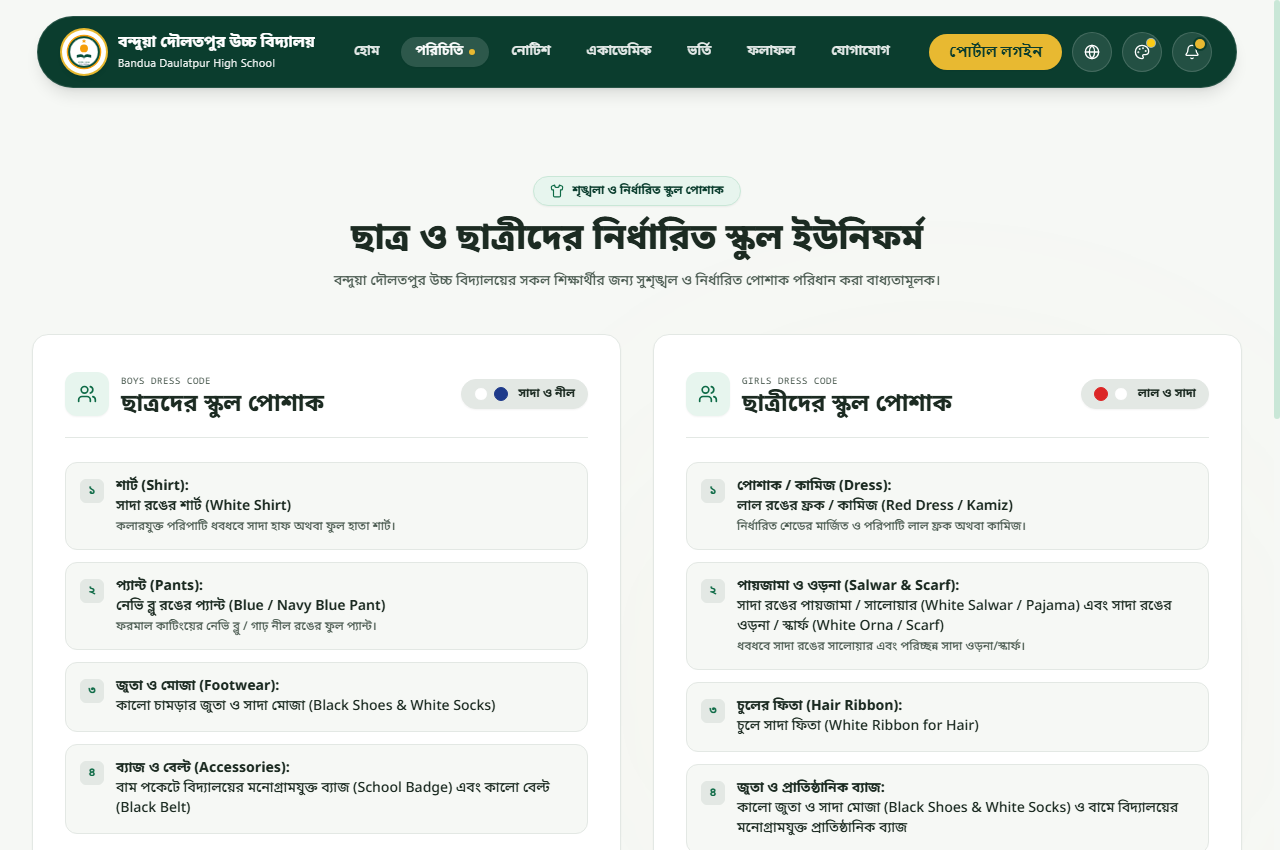
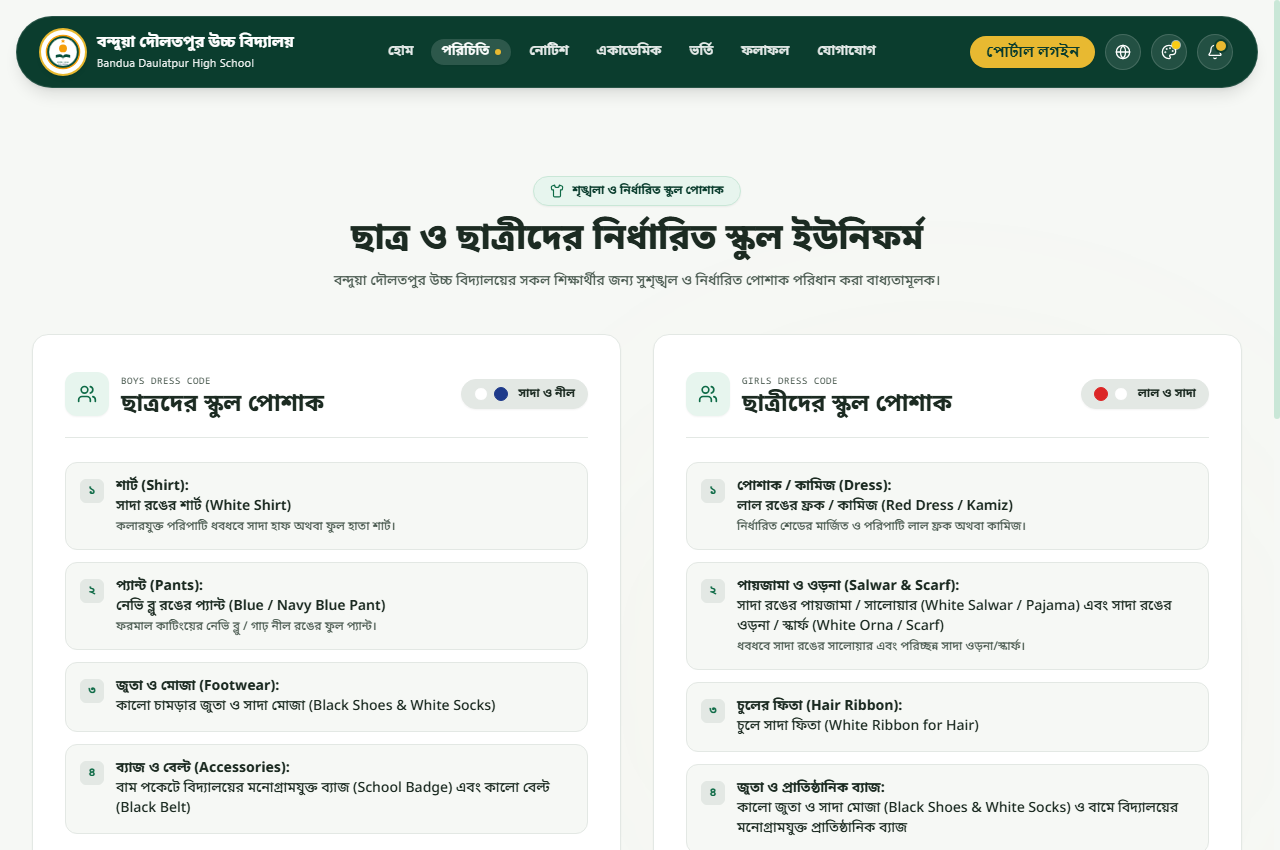
fix(ui): resolve stats strip subtitle contrast and header school name truncation at 1280px

diff --git a/src/components/Header.jsx b/src/components/Header.jsx
@@ -197,15 +197,15 @@ export default function Header() {
             : '-translate-x-1/2 translate-y-0'
         } ${
           isScrolled
-            ? 'top-[10px] w-[calc(100%-1.5rem)] max-w-[1100px] h-[58px] bg-deep/90 backdrop-blur-[14px] backdrop-saturate-[140%] border border-white/[0.14] shadow-[0_12px_32px_rgba(0,0,0,0.18)] floating-glass-scrolled'
-            : 'top-[16px] w-[calc(100%-2rem)] max-w-[1200px] h-[72px] bg-deep border border-white/[0.12] shadow-lg'
+            ? 'top-[10px] w-[calc(100%-1.5rem)] max-w-[1260px] h-[58px] bg-deep/90 backdrop-blur-[14px] backdrop-saturate-[140%] border border-white/[0.14] shadow-[0_12px_32px_rgba(0,0,0,0.18)] floating-glass-scrolled'
+            : 'top-[16px] w-[calc(100%-2rem)] max-w-[1360px] h-[72px] bg-deep border border-white/[0.12] shadow-lg'
         }`}
       >
-        <nav className="w-full h-full px-3.5 sm:px-6 flex items-center justify-between gap-2 sm:gap-4 select-none">
-          {/* LEFT BRAND IDENTITY: CIRCULAR EMBLEM + NAME (C5 fix for mobile screens) */}
+        <nav className="w-full h-full px-3 sm:px-5 xl:px-6 flex items-center justify-between gap-2 sm:gap-3 xl:gap-4 select-none">
+          {/* LEFT BRAND IDENTITY: CIRCULAR EMBLEM + NAME (Never truncate on desktop) */}
           <div 
             onClick={() => handleNavClick('home')}
-            className="flex items-center gap-2 sm:gap-3 cursor-pointer group min-w-0"
+            className="flex items-center gap-2 sm:gap-3 cursor-pointer group shrink-0 min-w-max"
             role="button"
             tabIndex={0}
             onKeyDown={(e) => (e.key === 'Enter' || e.key === ' ') && handleNavClick('home')}
@@ -219,13 +219,13 @@ export default function Header() {
               <SchoolLogo logo={schoolInfo.logo} />
             </div>
 
-            <div className="hidden sm:block min-w-0 max-w-[140px] sm:max-w-[200px] md:max-w-xs transition-all duration-300">
-              <h1 className={`text-white font-bold font-bangla truncate leading-tight tracking-normal transition-all duration-300 group-hover:text-accent ${
+            <div className="hidden sm:block shrink-0 transition-all duration-300">
+              <h1 className={`text-white font-bold font-bangla whitespace-nowrap leading-tight tracking-normal transition-all duration-300 group-hover:text-accent ${
                 isScrolled ? 'text-xs sm:text-sm' : 'text-xs sm:text-base'
               }`}>
                 {lang === 'bn' ? schoolInfo.nameBn : (schoolInfo.nameEn || 'Bandua Daulatpur High School')}
               </h1>
-              <p className={`text-white/90 font-sans tracking-wide truncate transition-all duration-300 overflow-hidden ${
+              <p className={`text-white/90 font-sans tracking-wide whitespace-nowrap transition-all duration-300 overflow-hidden ${
                 isScrolled 
                   ? 'opacity-0 max-h-0 -translate-y-1' 
                   : 'opacity-100 max-h-4 text-[10px] sm:text-[11px] mt-0.5 translate-y-0'
@@ -236,7 +236,7 @@ export default function Header() {
           </div>
 
           {/* CENTER: DESKTOP NAVIGATION ITEMS */}
-          <ul className="hidden lg:flex items-center gap-1 xl:gap-2 flex-nowrap h-full">
+          <ul className="hidden lg:flex items-center gap-0.5 xl:gap-2 flex-nowrap h-full">
             {navItems.map((item) => {
               const active = isItemActive(item);
               const hasChildren = Boolean(item.children && item.children.length > 0);
@@ -256,13 +256,13 @@ export default function Header() {
                       handleNavClick(item.directTab);
                     }}
                     aria-label={lang === 'bn' ? item.labelBn : item.labelEn}
-                    className={`px-3.5 xl:px-4 py-2 rounded-full transition-all duration-200 flex items-center justify-center text-center cursor-pointer focus-visible:outline-2 focus-visible:outline-accent focus-visible:outline-offset-2 ${
+                    className={`px-2.5 xl:px-4 py-1.5 xl:py-2 rounded-full transition-all duration-200 flex items-center justify-center text-center cursor-pointer focus-visible:outline-2 focus-visible:outline-accent focus-visible:outline-offset-2 ${
                       active 
                         ? 'bg-white/[0.14] text-white shadow-xs font-bold' 
                         : 'text-white/90 hover:text-white hover:bg-white/[0.08]'
                     }`}
                   >
-                    <span className="font-bangla font-semibold text-sm leading-none flex items-center gap-1.5">
+                    <span className="font-bangla font-semibold text-xs xl:text-sm leading-none flex items-center gap-1 xl:gap-1.5">
                       <span>{lang === 'bn' ? item.labelBn : item.labelEn}</span>
                       {active && (
                         <span className="w-1.5 h-1.5 rounded-full bg-accent shadow-xs"></span>
@@ -309,16 +309,16 @@ export default function Header() {
           </ul>
 
           {/* RIGHT ACTION BUTTONS */}
-          <div className="flex items-center gap-1.5 sm:gap-2.5 shrink-0">
+          <div className="flex items-center gap-1 sm:gap-2 xl:gap-2.5 shrink-0">
             {/* Primary Action Button: "পোর্টাল লগইন" in Amber */}
             {authUser ? (
-              <div className="flex items-center gap-1.5">
+              <div className="flex items-center gap-1 sm:gap-1.5">
                 <button
                   onClick={() => handleNavClick('admin')}
                   className={`bg-accent hover:bg-accent-hover text-accent-ink font-bold rounded-full transition-all duration-300 flex items-center gap-1.5 cursor-pointer shadow-xs hover:-translate-y-0.5 hover:shadow-md active:translate-y-0 active:scale-95 focus-visible:outline-2 focus-visible:outline-accent focus-visible:outline-offset-2 ${
                     isScrolled 
-                      ? 'px-3.5 sm:px-4 py-1.5 text-xs' 
-                      : 'px-4 sm:px-5 py-2 text-xs sm:text-sm'
+                      ? 'px-3 sm:px-3.5 xl:px-4 py-1.5 text-xs' 
+                      : 'px-3 sm:px-4 xl:px-5 py-1.5 xl:py-2 text-xs sm:text-sm'
                   }`}
                   title="Open CMS Dashboard"
                 >
@@ -328,7 +328,7 @@ export default function Header() {
                 <button
                   onClick={logout}
                   className={`rounded-full bg-white/10 hover:bg-danger-soft hover:text-danger border border-white/15 text-white/90 flex items-center justify-center transition-all duration-300 cursor-pointer active:scale-95 focus-visible:outline-2 focus-visible:outline-accent ${
-                    isScrolled ? 'w-9 h-9' : 'w-10 h-10'
+                    isScrolled ? 'w-8.5 h-8.5 xl:w-9 xl:h-9' : 'w-8.5 h-8.5 sm:w-9 sm:h-9 xl:w-10 xl:h-10'
                   }`}
                   title="লগআউট (Logout)"
                   aria-label="লগআউট"
@@ -341,8 +341,8 @@ export default function Header() {
                 onClick={() => setAuthModalOpen(true)}
                 className={`bg-accent hover:bg-accent-hover text-accent-ink font-bold rounded-full transition-all duration-300 flex items-center gap-1.5 cursor-pointer shadow-xs hover:-translate-y-0.5 hover:shadow-md active:translate-y-0 active:scale-95 focus-visible:outline-2 focus-visible:outline-accent focus-visible:outline-offset-2 ${
                   isScrolled 
-                    ? 'px-3.5 sm:px-4 py-1.5 text-xs' 
-                    : 'px-4 sm:px-5 py-2 text-xs sm:text-sm'
+                    ? 'px-3 sm:px-3.5 xl:px-4 py-1.5 text-xs' 
+                    : 'px-3 sm:px-4 xl:px-5 py-1.5 xl:py-2 text-xs sm:text-sm'
                 }`}
                 title="School Portal Login"
               >
@@ -350,23 +350,23 @@ export default function Header() {
               </button>
             )}
 
-            {/* Language Switcher - 40px Round Icon Button */}
+            {/* Language Switcher - Round Icon Button */}
             <button
               onClick={toggleLanguage}
               className={`rounded-full bg-white/10 hover:bg-white/20 border border-white/15 text-white flex items-center justify-center transition-all duration-300 cursor-pointer active:scale-95 focus-visible:outline-2 focus-visible:outline-accent focus-visible:outline-offset-2 ${
-                isScrolled ? 'w-9 h-9' : 'w-10 h-10'
+                isScrolled ? 'w-8.5 h-8.5 xl:w-9 xl:h-9' : 'w-8.5 h-8.5 sm:w-9 sm:h-9 xl:w-10 xl:h-10'
               }`}
               title="ভাষা পরিবর্তন (Toggle Language)"
               aria-label="ভাষা পরিবর্তন (Toggle Language)"
             >
-              <Globe className="w-4 h-4 text-white" />
+              <Globe className="w-3.5 h-3.5 xl:w-4 xl:h-4 text-white" />
             </button>
 
-            {/* Theme Toggle Button - 40px Round Icon Button with Palette & Preview Dot */}
+            {/* Theme Toggle Button - Round Icon Button with Palette & Preview Dot */}
             <button
               onClick={toggleTheme}
               className={`rounded-full bg-white/10 hover:bg-white/20 border border-white/15 text-white flex items-center justify-center transition-all duration-300 cursor-pointer relative active:scale-95 focus-visible:outline-2 focus-visible:outline-accent focus-visible:outline-offset-2 ${
-                isScrolled ? 'w-9 h-9' : 'w-10 h-10'
+                isScrolled ? 'w-8.5 h-8.5 xl:w-9 xl:h-9' : 'w-8.5 h-8.5 sm:w-9 sm:h-9 xl:w-10 xl:h-10'
               }`}
               title={
                 theme === 'emerald'
@@ -375,7 +375,7 @@ export default function Header() {
               }
               aria-label="রঙের থিম পরিবর্তন করুন"
             >
-              <Palette className="w-4 h-4 text-white" />
+              <Palette className="w-3.5 h-3.5 xl:w-4 xl:h-4 text-white" />
               <span
                 className={`absolute top-1.5 right-1.5 w-2 h-2 rounded-full ring-1 ring-white/60 ${
                   theme === 'emerald' ? 'bg-[#FACC15]' : 'bg-[#E8B931]'
@@ -384,19 +384,19 @@ export default function Header() {
               />
             </button>
 
-            {/* Notice Bell Indicator - 40px Round Icon Button (L8 fix: clears unread dot on click) */}
+            {/* Notice Bell Indicator - Round Icon Button */}
             <button
               onClick={() => {
                 setHasUnreadNotice(false);
                 handleNavClick('notices');
               }}
               className={`rounded-full bg-white/10 hover:bg-white/20 border border-white/15 text-white flex items-center justify-center transition-all duration-300 cursor-pointer relative active:scale-95 focus-visible:outline-2 focus-visible:outline-accent focus-visible:outline-offset-2 ${
-                isScrolled ? 'w-9 h-9' : 'w-10 h-10'
+                isScrolled ? 'w-8.5 h-8.5 xl:w-9 xl:h-9' : 'w-8.5 h-8.5 sm:w-9 sm:h-9 xl:w-10 xl:h-10'
               }`}
               title="নোটিফিকেশন (Notification)"
               aria-label="নোটিফিকেশন (Notification)"
             >
-              <Bell className="w-4 h-4 text-white" />
+              <Bell className="w-3.5 h-3.5 xl:w-4 xl:h-4 text-white" />
               {hasUnreadNotice && (
                 <span className="absolute top-1.5 right-1.5 w-2.5 h-2.5 rounded-full bg-accent ring-2 ring-deep"></span>
               )}
@@ -406,7 +406,7 @@ export default function Header() {
             <button
               onClick={() => setMobileMenuOpen(!mobileMenuOpen)}
               className={`lg:hidden rounded-full bg-white/10 hover:bg-white/20 border border-white/15 text-white flex items-center justify-center transition-all duration-300 cursor-pointer active:scale-95 ${
-                isScrolled ? 'w-9 h-9' : 'w-10 h-10'
+                isScrolled ? 'w-8.5 h-8.5' : 'w-9 h-9 sm:w-10 sm:h-10'
               }`}
               aria-label="মেনু খুলুন / বন্ধ করুন"
               aria-expanded={mobileMenuOpen}

diff --git a/src/components/HeroSlider.jsx b/src/components/HeroSlider.jsx
@@ -204,29 +204,29 @@ export default function HeroSlider() {
       </div>
 
       {/* Stat Bar Bottom Ribbon: Flat Solid Dark Green, Consistent Numerals */}
-      <div className="relative z-20 bg-deep border-t border-primary py-4 px-4 sm:px-8 shadow-xs">
+      <div className="relative z-20 bg-deep border-t border-white/10 py-4 px-4 sm:px-8 shadow-xs">
         <div className="max-w-7xl mx-auto grid grid-cols-2 sm:grid-cols-4 gap-4 text-center">
-          <div className="border-r border-primary last:border-none px-2">
+          <div className="border-r border-white/15 last:border-none px-2">
             <p className="text-2xl sm:text-3xl font-extrabold text-white">
               {lang === 'bn' ? '১৯৯০' : '1990'}
             </p>
-            <p className="text-xs sm:text-sm text-primary font-bangla mt-0.5">
+            <p className="text-xs sm:text-sm text-soft font-medium font-bangla mt-0.5">
               {lang === 'bn' ? 'স্থাপিত শিক্ষাবর্ষ (স্বীকৃতি: ১৯৯৪)' : 'Established Year'}
             </p>
           </div>
-          <div className="border-r border-primary last:border-none px-2">
+          <div className="border-r border-white/15 last:border-none px-2">
             <p className="text-2xl sm:text-3xl font-extrabold text-white">
               {lang === 'bn' ? '৮৫০+' : '850+'}
             </p>
-            <p className="text-xs sm:text-sm text-primary font-bangla mt-0.5">
+            <p className="text-xs sm:text-sm text-soft font-medium font-bangla mt-0.5">
               {lang === 'bn' ? 'বর্তমান শিক্ষার্থী' : 'Enrolled Students'}
             </p>
           </div>
-          <div className="border-r border-primary last:border-none px-2">
+          <div className="border-r border-white/15 last:border-none px-2">
             <p className="text-2xl sm:text-3xl font-extrabold text-white">
               {lang === 'bn' ? '৯৮.৫%' : '98.5%'}
             </p>
-            <p className="text-xs sm:text-sm text-primary font-bangla mt-0.5">
+            <p className="text-xs sm:text-sm text-soft font-medium font-bangla mt-0.5">
               {lang === 'bn' ? 'এসএসসি পাশের হার' : 'SSC Board Pass Rate'}
             </p>
           </div>
@@ -234,7 +234,7 @@ export default function HeroSlider() {
             <p className="text-2xl sm:text-3xl font-extrabold text-white">
               {lang === 'bn' ? '৩টি বিভাগ' : '3 Groups'}
             </p>
-            <p className="text-xs sm:text-sm text-primary font-bangla mt-0.5">
+            <p className="text-xs sm:text-sm text-soft font-medium font-bangla mt-0.5">
               {lang === 'bn' ? 'বিজ্ঞান, ব্যবসায় ও মানবিক' : 'Science, Business & Humanities'}
             </p>
           </div>

diff --git a/src/context/SchoolContext.jsx b/src/context/SchoolContext.jsx
@@ -52,6 +52,9 @@ export function SchoolProvider({ children }) {
   const [theme, setTheme] = useState(() => {
     if (typeof window !== 'undefined') {
       try {
+        const urlParams = new URLSearchParams(window.location.search);
+        const urlTheme = urlParams.get('theme');
+        if (urlTheme === 'indigo' || urlTheme === 'emerald') return urlTheme;
         const savedTheme = localStorage.getItem('bdhs_theme');
         if (savedTheme === 'indigo') return 'indigo';
       } catch (e) {
